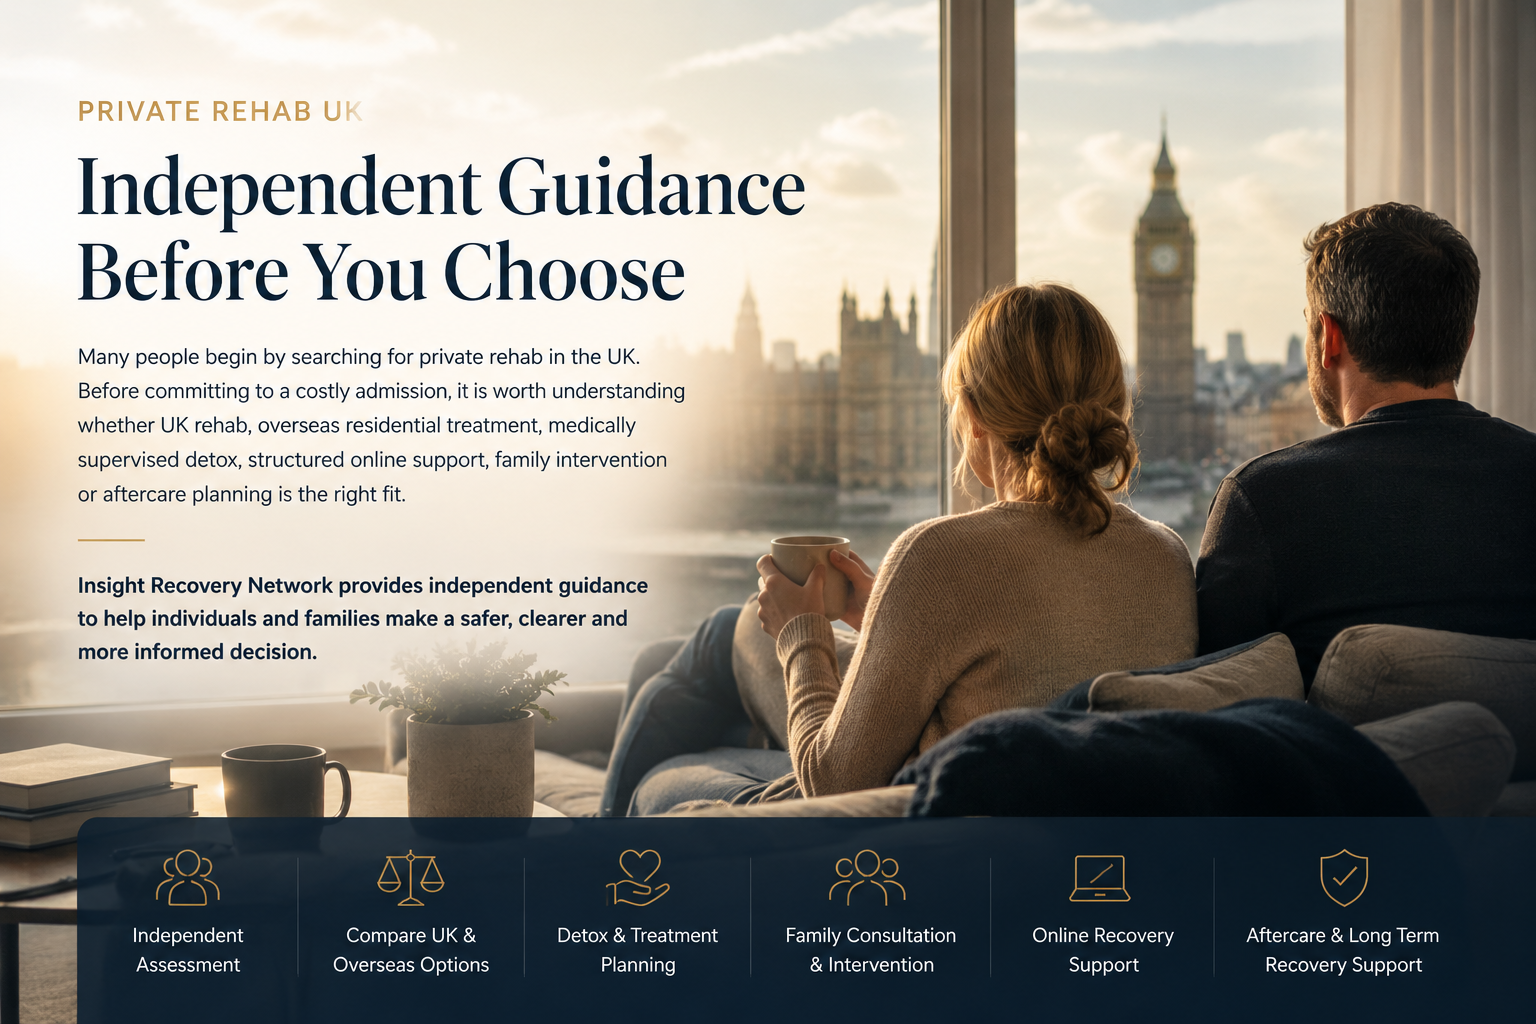
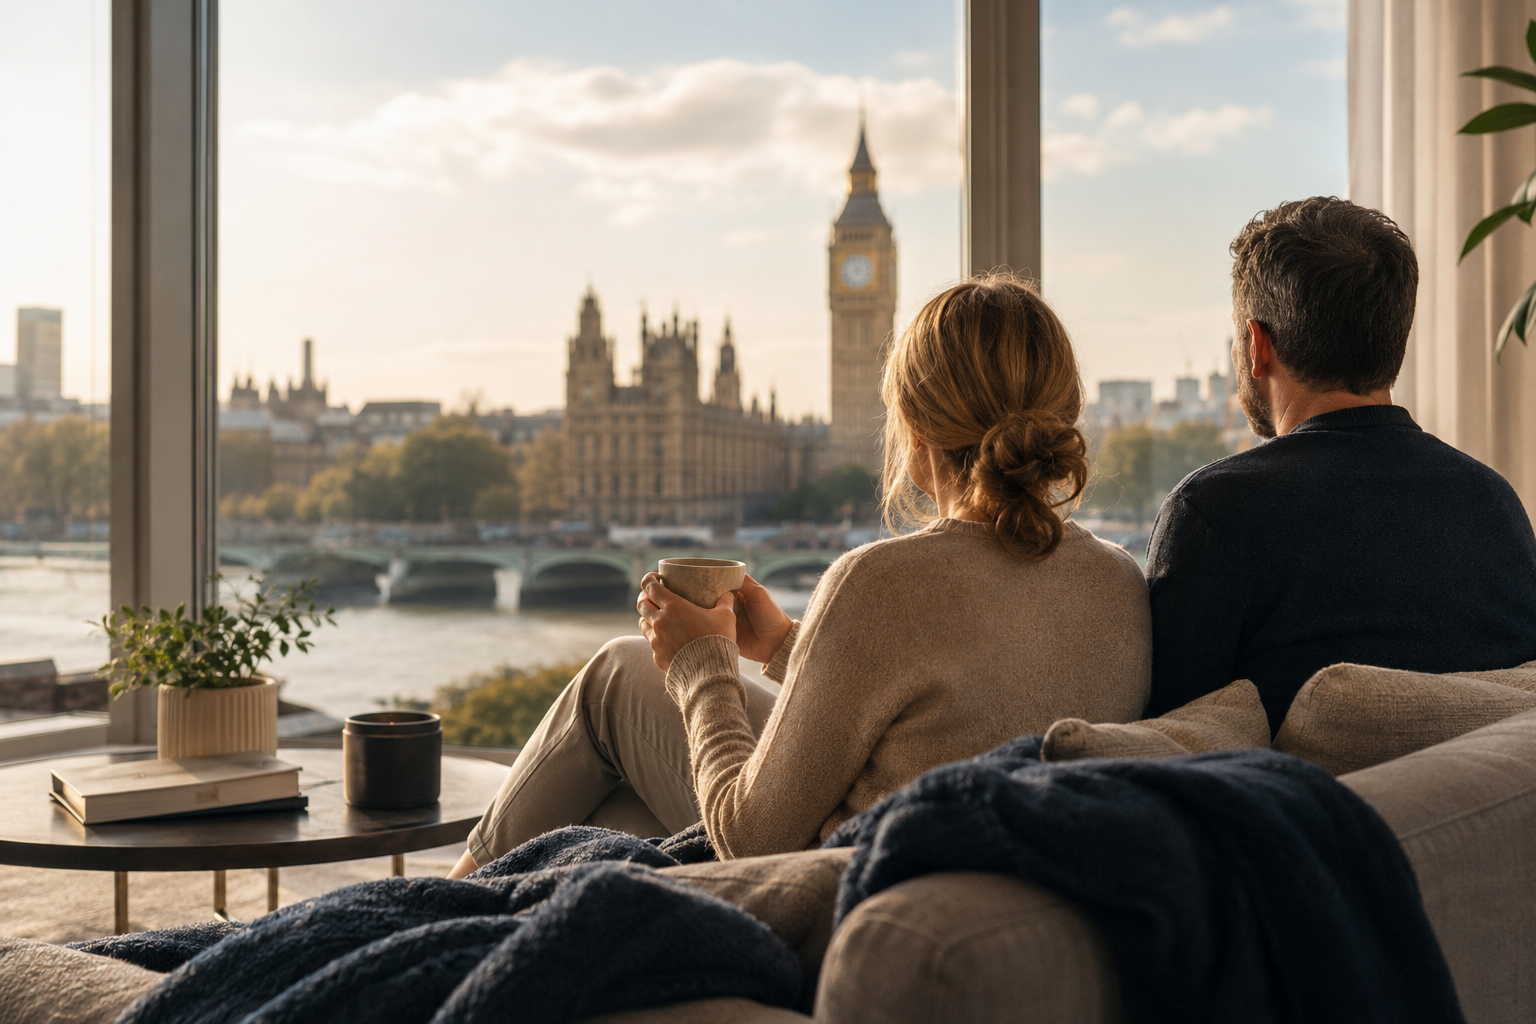
Update to Private Rehab UK

diff --git a/artifacts/irn-website/src/pages/PrivateRehabUK.tsx b/artifacts/irn-website/src/pages/PrivateRehabUK.tsx
@@ -195,7 +195,7 @@ export default function PrivateRehabUK() {
                   src="/private-rehab-uk-hero.png"
                   alt="Couple reviewing private rehab and treatment options with independent guidance"
                   className="block w-full h-full object-cover aspect-[4/3] lg:aspect-[5/4]"
-                  style={{ objectPosition: "72% 32%" }}
+                  style={{ objectPosition: "center" }}
                   width={1536}
                   height={1024}
                   loading="eager"
